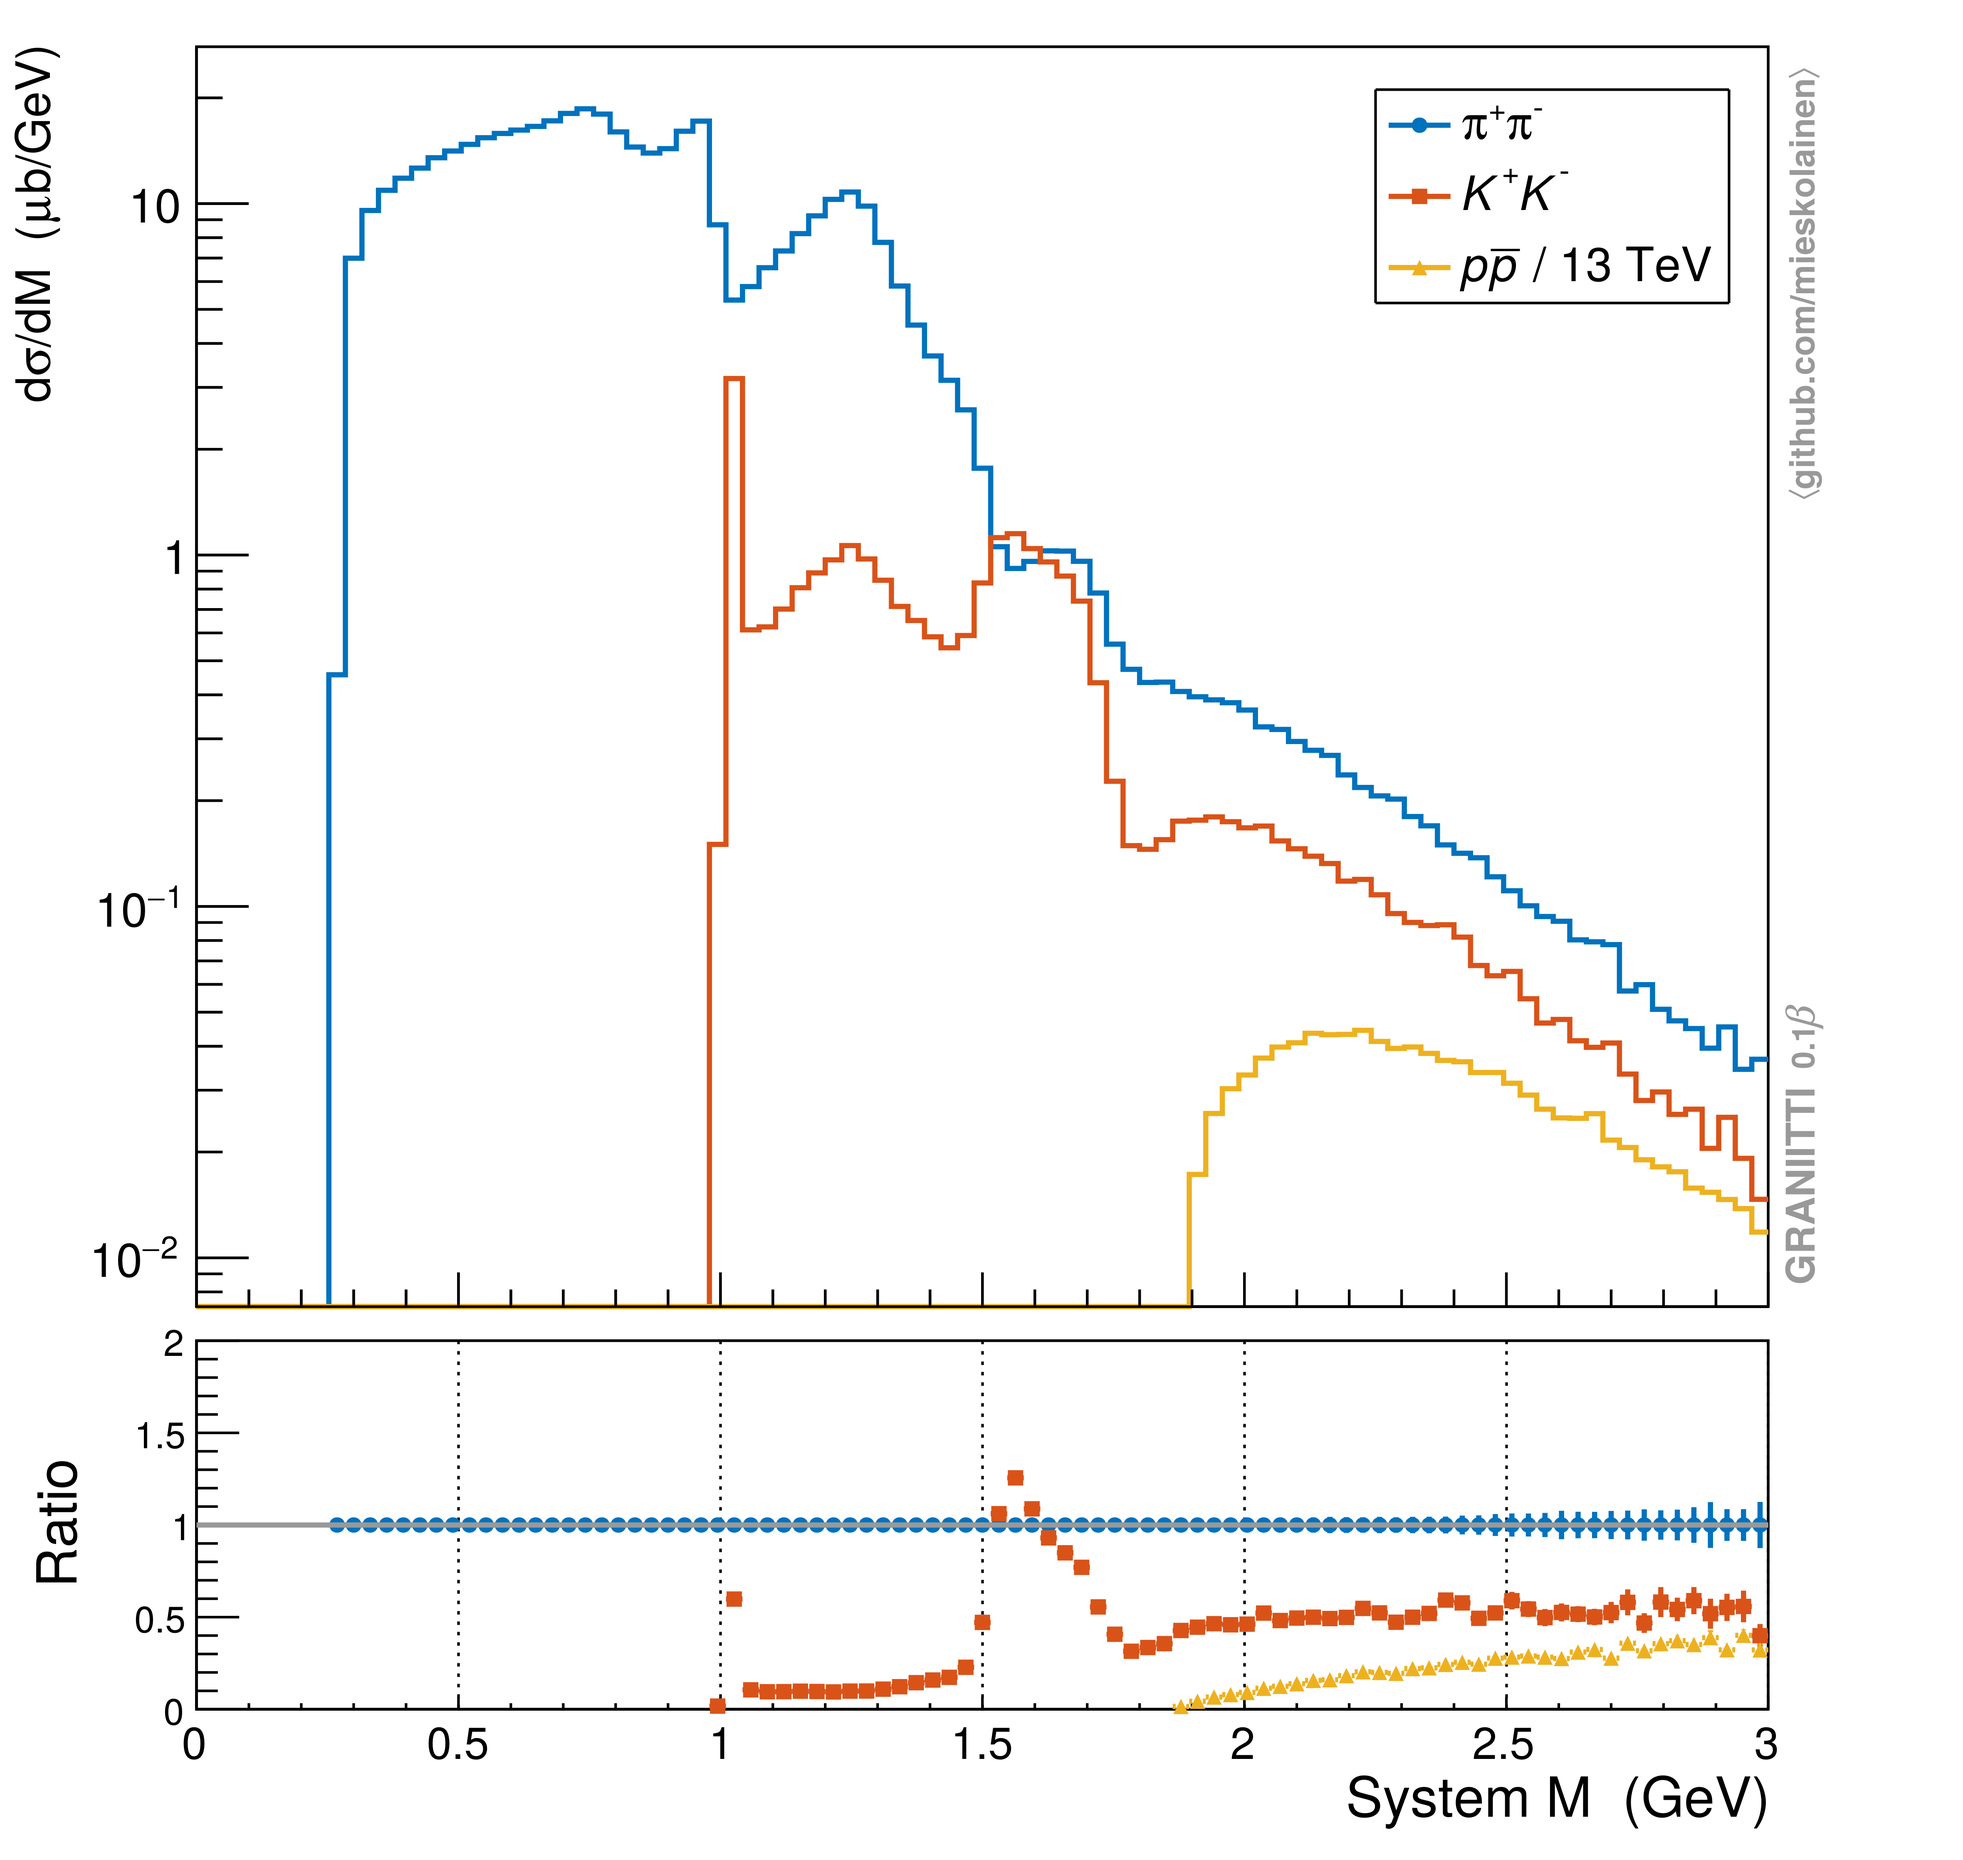
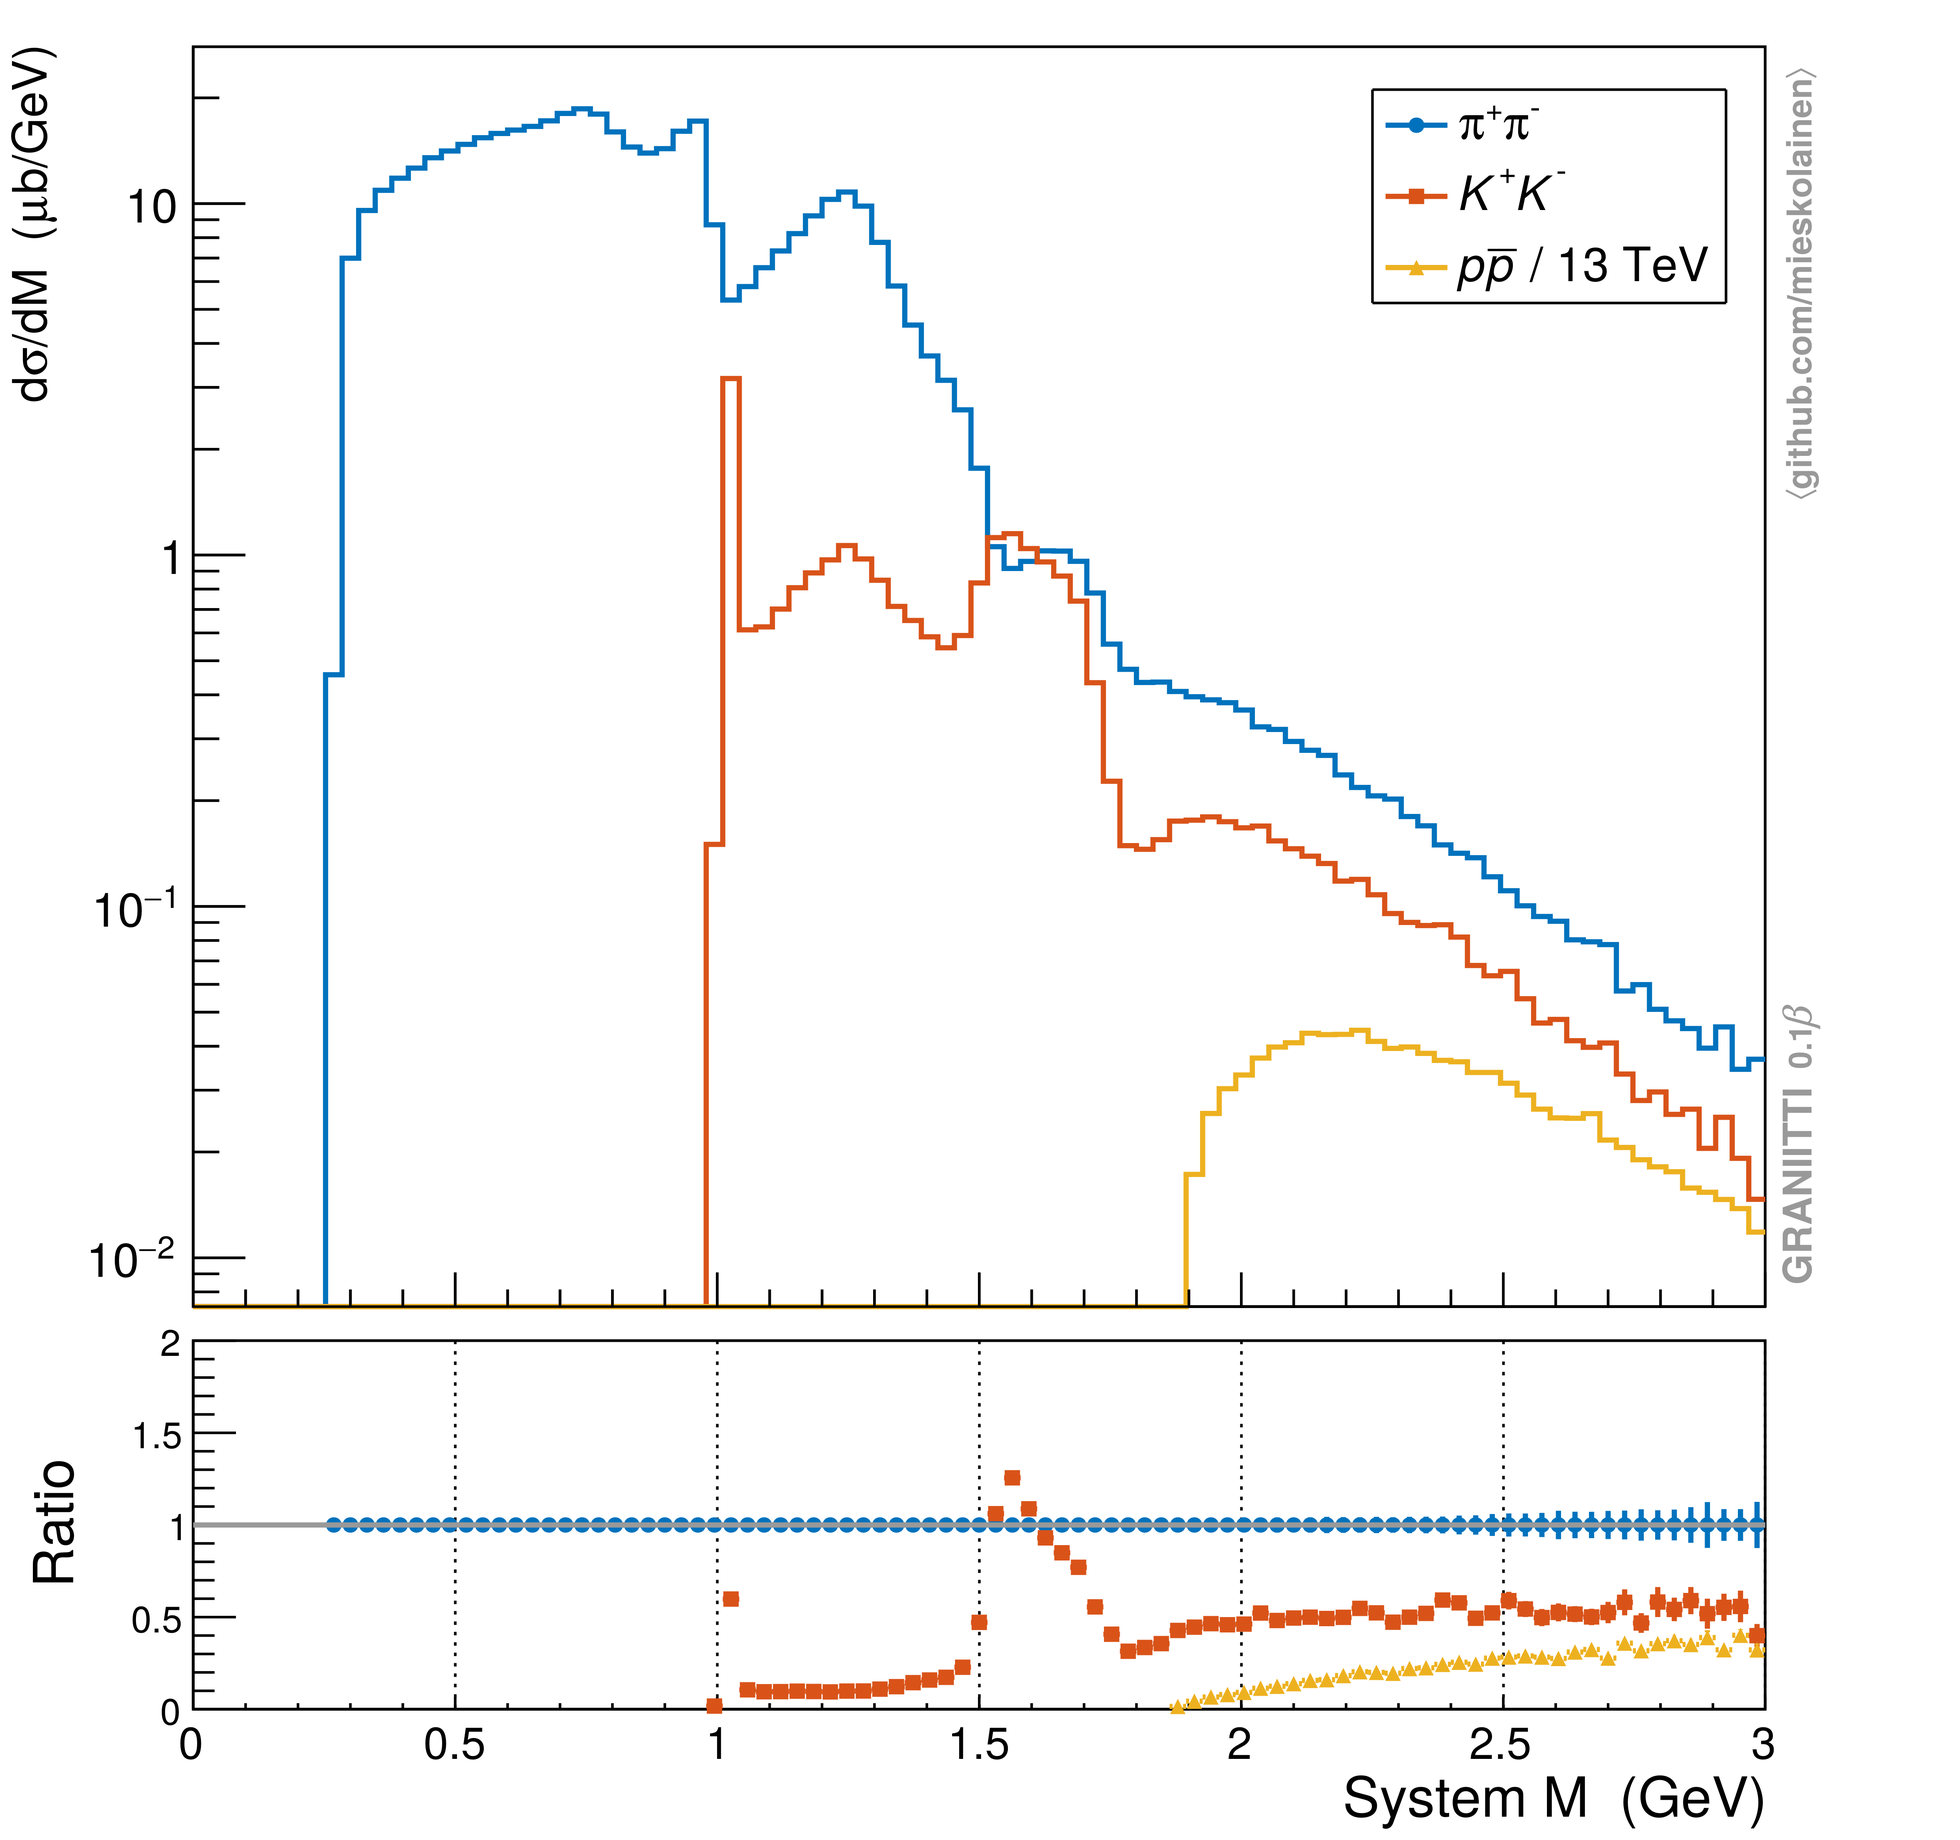
updates

diff --git a/index.html b/index.html
@@ -283,7 +283,7 @@ function getRandomImage(imgAr, path) {
 	</ul>
 
 <div style="text-align:center">
-	<a href="img/h2_2B_diffrap_logy.png"><img src="img/h2_2B_diffrap_logy.png" height="340" title="Tensor meson production at the LHC [click]" style="border:0;"></a>
+	<a href="img/h2_2B_diffrap_logy.png"><img src="img/h2_2B_diffrap_logy.png" height="360" title="Tensor meson production at the LHC [click]" style="border:0;"></a>
 	<a href="img/central_production.png"><img src="img/central_production.png" height="350" title="Soft central production at the LHC [click]" style="border:0;"></a>
 	<br>
 	<p><i>Spin-2 couplings (left), central exclusive production pp &rarr; p + X + p spectrums (right)</i></p>
